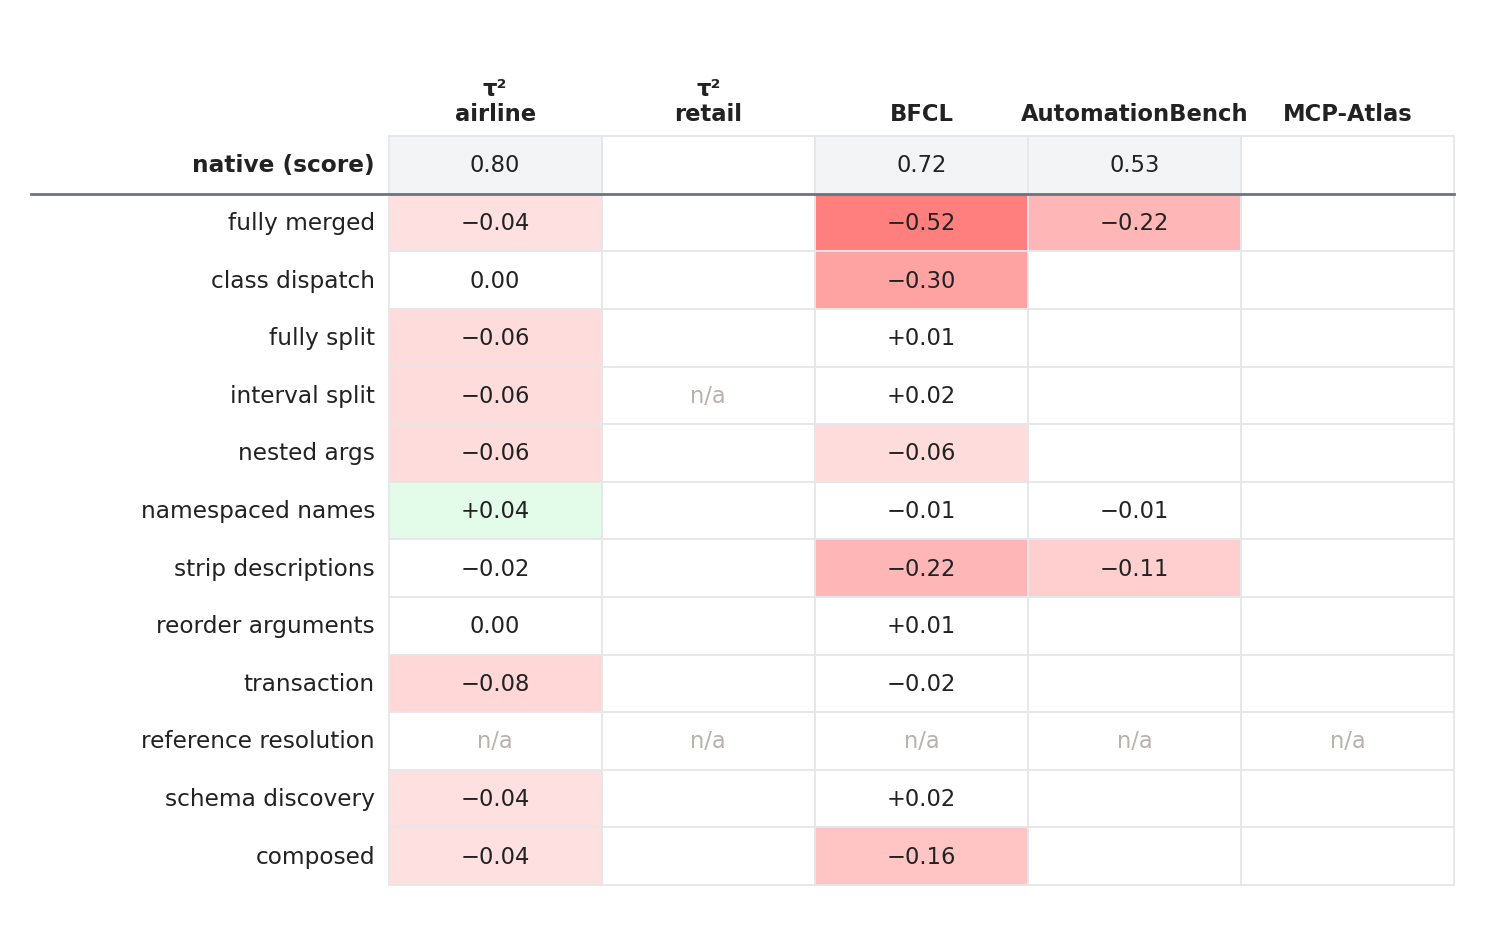
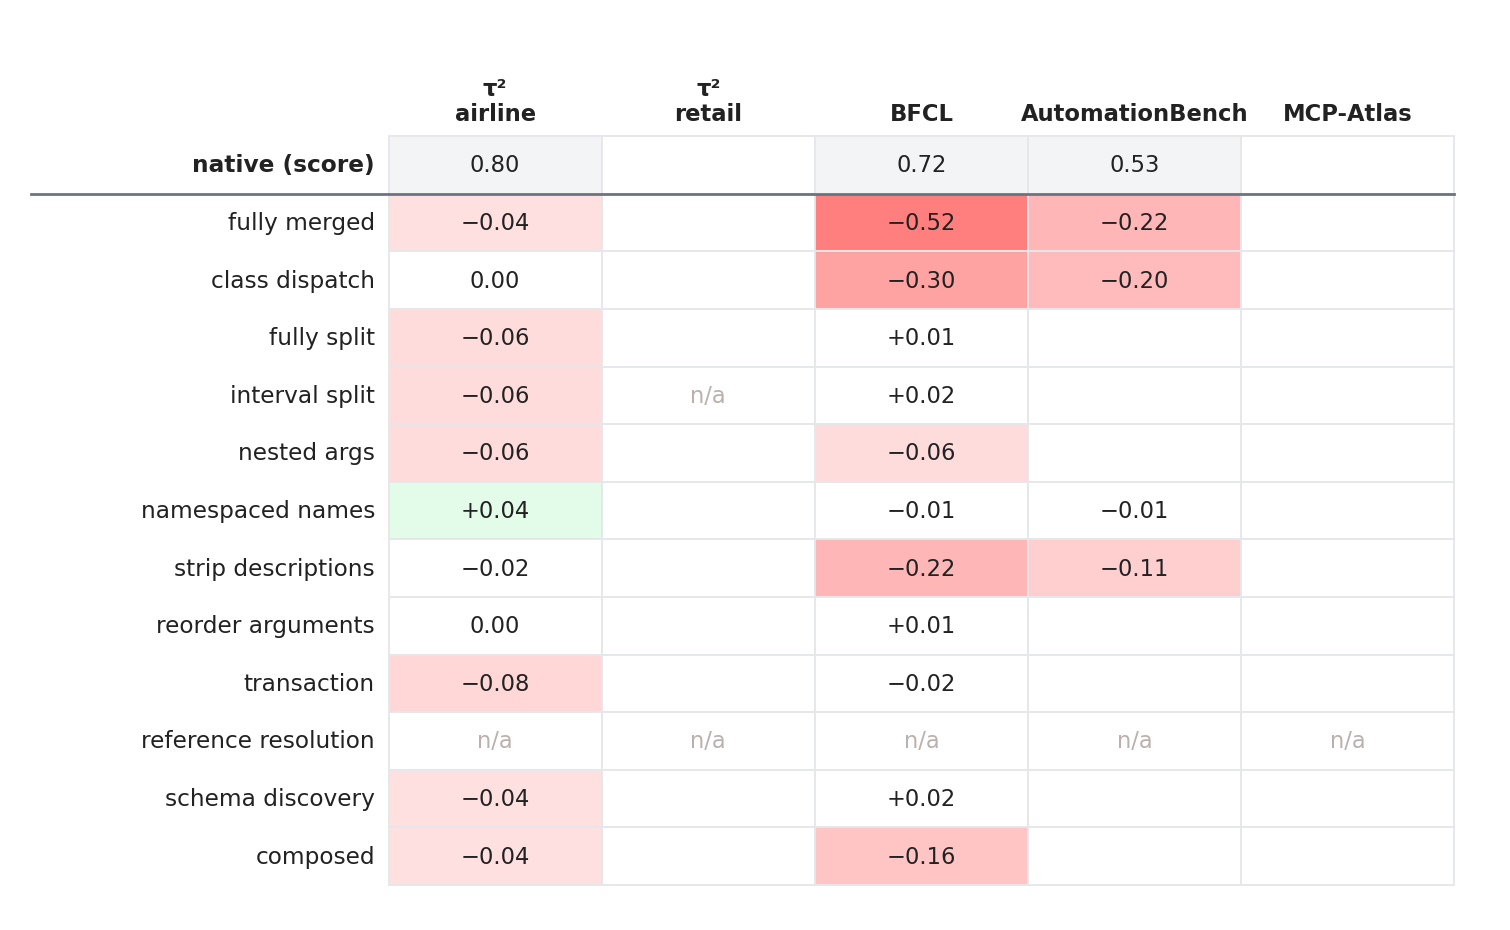
results/real: refresh
Claude-Session: https://claude.ai/code/session_01Q8ViF5biZy5C1S35sHbtBs

Changed region(s): [[0.6536, 0.2495, 0.8404, 0.343]]

diff --git a/results/raw_tables.md b/results/raw_tables.md
@@ -51,7 +51,7 @@ The numbers behind the figures in [README.md](README.md). In each table the firs
 |---|---:|---:|---:|---:|---:|
 | native (score) | **0.800** |   | **0.725** | **0.535** |   |
 | fully merged | -0.040 |   | -0.515 | -0.219 |   |
-| class dispatch | +0.000 |   | -0.305 |   |   |
+| class dispatch | +0.000 |   | -0.305 | -0.199 |   |
 | fully split | -0.060 |   | +0.005 |   |   |
 | interval split | -0.060 | n/a | +0.015 |   |   |
 | nested args | -0.060 |   | -0.060 |   |   |
